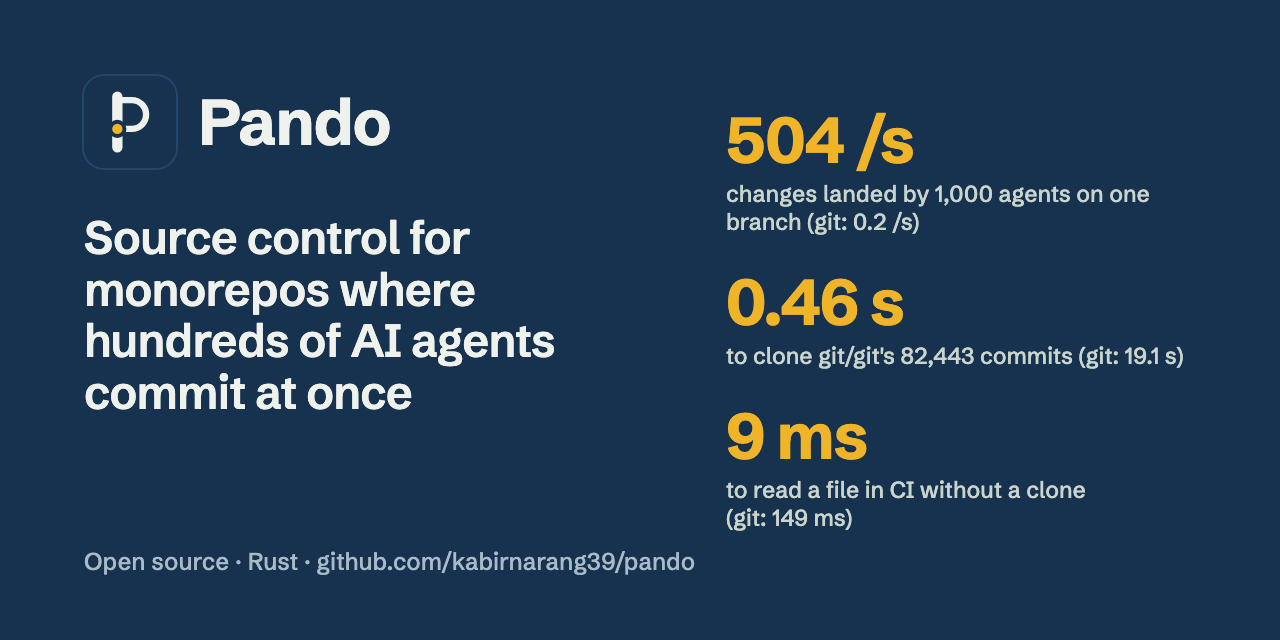
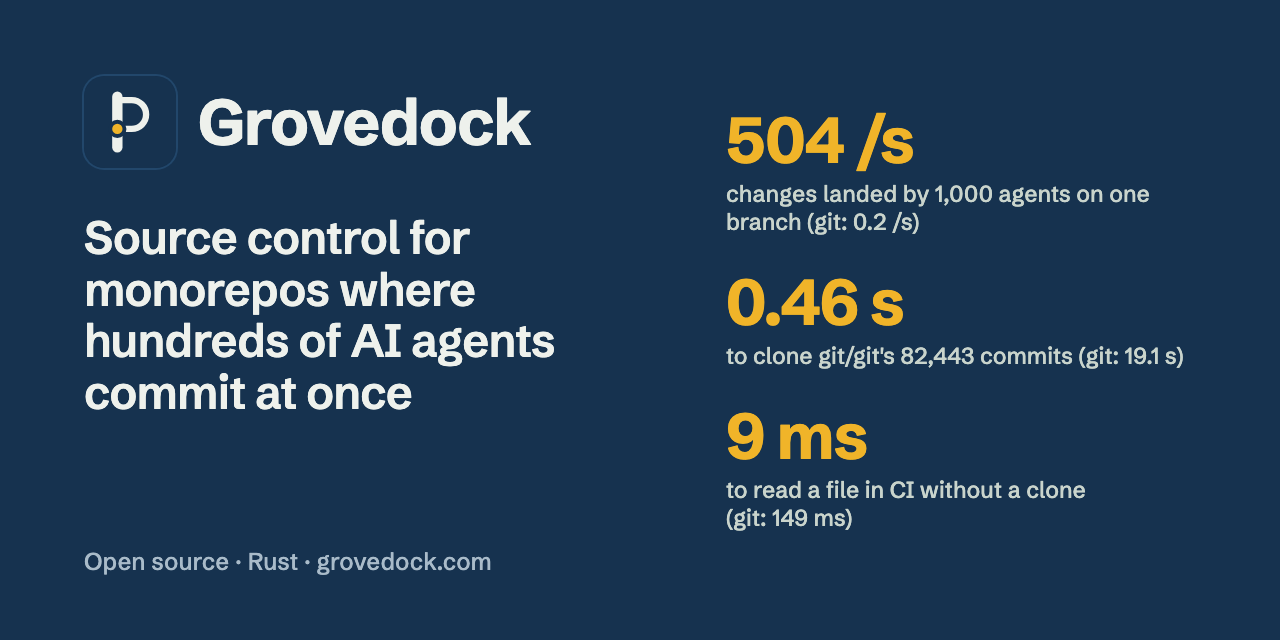
brand: rename the product to Grovedock, serve the site from grovedock.com
Site, docs, console and sign-in pages use the new name and a new
outlined wordmark (Schibsted Grotesk Bold, same tracking as before).
Commands, packages, PANDO_* variables, webhook headers and the protocol
keep the pando name until 3.6. The Pages build serves from the domain
root and writes CNAME.

Changed region(s): [[0.1562, 0.1562, 0.4062, 0.25], [0.25, 0.8438, 0.5312, 0.9062]]

diff --git a/console/src/brand.tsx b/console/src/brand.tsx
@@ -1,4 +1,4 @@
-// The Pando mark ("Branch P": a heavy stem for main, a lighter bowl for a branch that lands back,
+// The Grovedock mark ("Branch P": a heavy stem for main, a lighter bowl for a branch that lands back,
 // a gold node at the landing) and the wordmark, Schibsted Grotesk Bold outlined.
 
 export function Mark({ size = 24, title }: { size?: number; title?: string }) {
@@ -13,8 +13,8 @@ export function Mark({ size = 24, title }: { size?: number; title?: string }) {
 
 export function Wordmark({ height = 15 }: { height?: number }) {
   return (
-    <svg className="word" style={{ height }} viewBox="0 -1520 6062 1940" aria-hidden="true">
-      <path fill="currentColor" d="M141 390V-1080H423V-863L420 -879Q476 -997 569 -1052Q663 -1106 779 -1106Q915 -1106 1015 -1039Q1114 -971 1168 -844Q1222 -716 1222 -538Q1222 -360 1168 -234Q1113 -107 1012 -41Q912 26 774 26Q654 26 561 -29Q467 -85 409 -210L437 -212V390ZM668 -199Q777 -199 842 -291Q907 -382 907 -544Q907 -704 843 -792Q780 -881 670 -881Q601 -881 545 -844Q490 -807 457 -732Q425 -656 425 -542Q425 -371 495 -285Q565 -199 668 -199ZM1673 26Q1569 26 1482 -11Q1395 -47 1343 -119Q1290 -191 1290 -299Q1290 -415 1358 -496Q1425 -577 1552 -620Q1680 -662 1862 -662H2014L1996 -635V-697Q1996 -804 1957 -856Q1918 -909 1828 -909Q1741 -909 1696 -863Q1650 -818 1640 -734L1337 -786Q1353 -876 1414 -949Q1474 -1021 1582 -1064Q1689 -1107 1845 -1107Q1988 -1107 2087 -1062Q2186 -1016 2237 -914Q2289 -812 2289 -641V-274Q2289 -240 2298 -229Q2308 -218 2339 -218H2387V0H2245Q2129 0 2068 -59Q2007 -117 2007 -227V-278L2060 -258Q2047 -215 2021 -166Q1996 -117 1952 -73Q1908 -30 1840 -2Q1772 26 1673 26ZM1758 -178Q1829 -178 1882 -210Q1936 -242 1967 -306Q1998 -371 1998 -467V-490H1872Q1766 -490 1706 -462Q1646 -434 1622 -394Q1598 -353 1598 -315Q1598 -285 1613 -253Q1627 -221 1662 -199Q1697 -178 1758 -178ZM2526 0V-1080H2814V-831L2807 -876Q2856 -983 2946 -1044Q3036 -1106 3164 -1106Q3289 -1106 3370 -1049Q3450 -992 3489 -891Q3528 -790 3528 -658V0H3230V-639Q3230 -754 3192 -818Q3154 -881 3060 -881Q2949 -881 2887 -786Q2824 -691 2824 -495V0ZM4095 26Q3959 26 3860 -42Q3760 -110 3706 -237Q3652 -364 3652 -542Q3652 -720 3706 -846Q3761 -973 3861 -1039Q3961 -1106 4099 -1106Q4219 -1106 4313 -1051Q4406 -996 4464 -870L4434 -868V-1500H4732V0H4450V-217L4453 -202Q4399 -85 4306 -29Q4212 26 4095 26ZM4203 -199Q4273 -199 4329 -236Q4384 -273 4416 -349Q4449 -425 4449 -538Q4449 -709 4378 -795Q4308 -881 4206 -881Q4098 -881 4032 -790Q3967 -699 3967 -536Q3967 -377 4030 -288Q4093 -199 4203 -199ZM5436 26Q5273 26 5149 -46Q5024 -118 4954 -245Q4885 -373 4885 -540Q4885 -708 4954 -835Q5024 -963 5149 -1034Q5273 -1106 5436 -1106Q5600 -1106 5724 -1034Q5849 -963 5919 -835Q5989 -708 5989 -540Q5989 -372 5919 -245Q5849 -117 5724 -46Q5599 26 5436 26ZM5437 -193Q5548 -193 5613 -287Q5677 -380 5677 -540Q5677 -701 5613 -794Q5548 -887 5437 -887Q5325 -887 5261 -794Q5196 -701 5196 -540Q5196 -379 5261 -286Q5325 -193 5437 -193Z" />
+    <svg className="word" style={{ height }} viewBox="0 -1520 10315 1940" aria-hidden="true">
+      <path fill="currentColor" d="M565 416Q304 416 177 347Q50 278 50 134Q50 45 96 -10Q141 -65 220 -91Q183 -117 161 -156Q140 -195 140 -242Q140 -303 178 -349Q216 -395 287 -415Q208 -465 163 -543Q119 -622 119 -723Q119 -839 177 -925Q234 -1011 338 -1059Q442 -1106 581 -1106Q720 -1106 824 -1059Q928 -1011 986 -924Q1044 -838 1044 -722Q1044 -608 986 -522Q928 -436 824 -389Q719 -341 579 -341H507Q408 -341 408 -288Q408 -237 507 -237H725Q837 -237 914 -210Q991 -183 1040 -138Q1088 -92 1111 -33Q1133 26 1133 91Q1133 255 1003 336Q873 416 604 416ZM572 226H608Q831 226 831 92Q831 40 792 6Q753 -29 650 -29H508Q446 -29 396 1Q346 30 346 99Q346 163 401 194Q456 226 572 226ZM581 -528Q668 -528 716 -579Q763 -630 763 -722Q763 -814 716 -866Q668 -918 581 -918Q495 -918 447 -867Q399 -815 399 -722Q399 -630 447 -579Q495 -528 581 -528ZM741 -951V-1060Q741 -1170 805 -1228Q869 -1287 991 -1287H1094V-1068H974Q943 -1068 933 -1057Q924 -1046 924 -1013V-951ZM1265 0V-1080H1553V-837L1540 -869Q1592 -989 1685 -1048Q1778 -1106 1888 -1106Q1919 -1106 1951 -1101Q1983 -1096 2014 -1084L1992 -830Q1927 -848 1866 -848Q1817 -848 1764 -831Q1711 -814 1665 -772Q1620 -729 1591 -652Q1563 -574 1563 -454V0ZM2625 26Q2462 26 2338 -46Q2213 -118 2143 -245Q2074 -373 2074 -540Q2074 -708 2143 -835Q2213 -963 2338 -1034Q2462 -1106 2625 -1106Q2789 -1106 2913 -1034Q3038 -963 3108 -835Q3178 -708 3178 -540Q3178 -372 3108 -245Q3038 -117 2913 -46Q2788 26 2625 26ZM2626 -193Q2737 -193 2802 -287Q2866 -380 2866 -540Q2866 -701 2802 -794Q2737 -887 2626 -887Q2514 -887 2450 -794Q2385 -701 2385 -540Q2385 -379 2450 -286Q2514 -193 2626 -193ZM3632 0 3223 -1080H3556L3823 -212H3795L4061 -1080H4394L3986 0ZM4999 26Q4841 26 4714 -43Q4588 -112 4514 -240Q4440 -367 4440 -541Q4440 -714 4512 -841Q4585 -968 4711 -1037Q4837 -1106 4997 -1106Q5087 -1106 5178 -1079Q5270 -1052 5346 -983Q5423 -915 5470 -792Q5517 -670 5517 -480H4631V-650H5252L5220 -597Q5212 -705 5180 -771Q5149 -837 5099 -867Q5050 -897 4989 -897Q4910 -897 4857 -852Q4804 -807 4778 -727Q4752 -646 4752 -540Q4752 -380 4812 -287Q4872 -194 4997 -194Q5078 -194 5137 -236Q5196 -278 5227 -364L5496 -295Q5458 -183 5381 -112Q5304 -41 5205 -8Q5105 26 4999 26ZM6034 26Q5899 26 5799 -42Q5699 -110 5645 -237Q5591 -364 5591 -542Q5591 -720 5645 -846Q5700 -973 5800 -1039Q5900 -1106 6039 -1106Q6158 -1106 6252 -1051Q6345 -996 6403 -870L6373 -868V-1500H6671V0H6389V-217L6392 -202Q6338 -85 6245 -29Q6151 26 6034 26ZM6142 -199Q6212 -199 6268 -236Q6323 -273 6355 -349Q6388 -425 6388 -538Q6388 -709 6318 -795Q6247 -881 6145 -881Q6037 -881 5972 -790Q5906 -699 5906 -536Q5906 -377 5969 -288Q6032 -199 6142 -199ZM7375 26Q7212 26 7088 -46Q6963 -118 6894 -245Q6824 -373 6824 -540Q6824 -708 6894 -835Q6963 -963 7088 -1034Q7212 -1106 7375 -1106Q7539 -1106 7664 -1034Q7788 -963 7858 -835Q7928 -708 7928 -540Q7928 -372 7858 -245Q7788 -117 7663 -46Q7539 26 7375 26ZM7376 -193Q7487 -193 7552 -287Q7616 -380 7616 -540Q7616 -701 7552 -794Q7487 -887 7376 -887Q7264 -887 7200 -794Q7136 -701 7136 -540Q7136 -379 7200 -286Q7264 -193 7376 -193ZM8569 26Q8399 26 8275 -43Q8150 -112 8083 -239Q8016 -366 8016 -541Q8016 -715 8083 -842Q8150 -969 8274 -1038Q8398 -1106 8568 -1106Q8690 -1106 8795 -1062Q8900 -1018 8973 -932Q9047 -845 9074 -717L8791 -657Q8770 -772 8712 -830Q8654 -887 8566 -887Q8445 -887 8386 -791Q8328 -695 8328 -537Q8328 -380 8386 -286Q8444 -193 8567 -193Q8652 -193 8710 -244Q8769 -296 8796 -402L9069 -351Q9048 -253 9000 -181Q8951 -110 8883 -64Q8814 -19 8734 4Q8654 26 8569 26ZM9214 0V-1500H9512V-664L9928 -1080H10269L9862 -676L10284 0H9952L9662 -470L9512 -320V0Z" />
     </svg>
   );
 }

diff --git a/console/index.html b/console/index.html
@@ -4,8 +4,8 @@
     <meta charset="utf-8" />
     <meta name="viewport" content="width=device-width, initial-scale=1, viewport-fit=cover" />
     <meta name="color-scheme" content="light dark" />
-    <meta name="description" content="Pando console: browse code, watch changes land and see locked files on a Pando server." />
-    <title>Pando console</title>
+    <meta name="description" content="Grovedock console: browse code, watch changes land and see locked files on a Grovedock server." />
+    <title>Grovedock console</title>
     <link rel="icon" href="./favicon.svg" type="image/svg+xml" />
     <script>
       // Apply the saved theme before first paint, so dark mode never flashes light.
@@ -36,10 +36,10 @@
             pando
           </div>
         </div>
-        <div class="first-main">Loading Pando…</div>
+        <div class="first-main">Loading Grovedock…</div>
       </div>
     </div>
-    <noscript>The Pando console needs JavaScript.</noscript>
+    <noscript>The Grovedock console needs JavaScript.</noscript>
     <script type="module" src="/src/main.tsx"></script>
   </body>
 </html>

diff --git a/console/src/views/Welcome.tsx b/console/src/views/Welcome.tsx
@@ -49,7 +49,7 @@ export function WelcomeView() {
   return (
     <div className="page page-narrow">
       <div>
-        <h1>{first ? "Welcome to Pando" : "New organisation"}</h1>
+        <h1>{first ? "Welcome to Grovedock" : "New organisation"}</h1>
         <p className="lede">
           {first
             ? "Three short steps and your team and agents can start landing code. You can skip the last two and come back later."
@@ -159,7 +159,7 @@ function AgentStep({ org }: { org: string }) {
     <div className="stack">
       <h2 id="step-title">Connect an agent</h2>
       <p style={{ margin: 0 }}>
-        Agents reach Pando over MCP with a URL and a token. Give the agent a name of its own, so its work is easy to tell apart from yours; it answers to you.
+        Agents reach Grovedock over MCP with a URL and a token. Give the agent a name of its own, so its work is easy to tell apart from yours; it answers to you.
       </p>
       {!token ? (
         <form

diff --git a/console/src/views/Connect.tsx b/console/src/views/Connect.tsx
@@ -138,11 +138,11 @@ export function ConnectView() {
   return (
     <div className="page page-narrow">
       <div>
-        <h1>{providers && !useToken ? "Sign in to Pando" : "Connect to a server"}</h1>
+        <h1>{providers && !useToken ? "Sign in to Grovedock" : "Connect to a server"}</h1>
         <p className="lede">
           {providers && !useToken
             ? "Sign in to see your organisations, repositories and agents."
-            : "The console reads one Pando server. It runs in your browser and talks to the server directly; nothing passes through anyone else."}
+            : "The console reads one Grovedock server. It runs in your browser and talks to the server directly; nothing passes through anyone else."}
         </p>
         {suggested && (
           <p className="status" data-kind="ok" role="status">

diff --git a/console/e2e/onboarding.spec.ts b/console/e2e/onboarding.spec.ts
@@ -50,7 +50,7 @@ test("server: a person with no organisation is guided from naming one to connect
   await page.goto(`/?server=${encodeURIComponent(FRESH)}#/`);
   await page.getByRole("button", { name: "Connect", exact: true }).click();
   // No organisations yet: straight into step 1.
-  await expect(page.getByRole("heading", { name: "Welcome to Pando" })).toBeVisible();
+  await expect(page.getByRole("heading", { name: "Welcome to Grovedock" })).toBeVisible();
   await expect(page.getByRole("heading", { name: "Name your organisation" })).toBeVisible();
 
   const name = page.getByLabel("Short name, used in addresses");

diff --git a/scripts/social-preview.html b/scripts/social-preview.html
@@ -16,9 +16,9 @@
 </style></head>
 <body>
   <div>
-    <div class="brand"><img src="../docs/assets/brand/mark.svg" alt="">Pando</div>
+    <div class="brand"><img src="../docs/assets/brand/mark.svg" alt="">Grovedock</div>
     <h1>Source control for monorepos where hundreds of AI agents commit at once</h1>
-    <div class="meta">Open source · Rust · github.com/kabirnarang39/pando</div>
+    <div class="meta">Open source · Rust · grovedock.com</div>
   </div>
   <div class="nums">
     <div class="num"><b>504 /s</b><span>changes landed by 1,000 agents on one branch (git:&nbsp;0.2&nbsp;/s)</span></div>

diff --git a/console/src/components/Webhooks.tsx b/console/src/components/Webhooks.tsx
@@ -38,7 +38,7 @@ export function Webhooks({ repo }: { repo: string }) {
         )}
       </div>
       <p className="panel-note muted">
-        Pando posts JSON to these URLs when something happens, signed with <span className="mono">X-Pando-Signature-256</span> the way GitHub signs, so CI, chat and trackers can react.
+        Grovedock posts JSON to these URLs when something happens, signed with <span className="mono">X-Pando-Signature-256</span> the way GitHub signs, so CI, chat and trackers can react.
       </p>
       {adding && (
         <form

diff --git a/site/index.html b/site/index.html
@@ -171,7 +171,7 @@
       <a href="mailto:{{CONTACT_EMAIL}}">Contact</a>
     </nav>
     <p id="fn1"><a href="#fnref1" aria-label="Back to text">1</a>. The line nods to Base Power's "Merge, don't queue."</p>
-    <p>Apache-2.0. Named after Pando, a grove of some 47,000 aspen trunks that grow from one root system.</p>
+    <p>Apache-2.0. Inspired by Pando, the aspen grove in Utah: some 47,000 trunks on one root system. A grove of agents on one root, and a dock where their changes land.</p>
   </div>
 </footer>
 <script>

diff --git a/console/src/api/demo-repo.ts b/console/src/api/demo-repo.ts
@@ -33,7 +33,7 @@ The monorepo behind Fleet: billing, search, the web app and the infrastructure t
 | web/app | storefront | the customer web app (TypeScript) |
 | infra | platform | Terraform for every environment |
 
-Every change lands on \`main\` through Pando. Agents land small changes continuously;
+Every change lands on \`main\` through Grovedock. Agents land small changes continuously;
 people review them in the console.
 `,
   "services/billing/Cargo.toml": `[package]

diff --git a/console/src/shell/AppShell.tsx b/console/src/shell/AppShell.tsx
@@ -186,7 +186,7 @@ function Sidebar({ onSearch, theme, setTheme, showShortcuts }: { onSearch(): voi
   return (
     <nav className="sidebar" aria-label="Main">
       <div className="workspace">
-        <Link to="/" className="lockup" aria-label="Pando home">
+        <Link to="/" className="lockup" aria-label="Grovedock home">
           <Mark size={22} />
           <Wordmark height={15} />
         </Link>

diff --git a/crates/pando-server/src/login/page.rs b/crates/pando-server/src/login/page.rs
@@ -13,7 +13,7 @@ const LOGO: &str = concat!(
     "<path d=\"M21 13h12.5a12.5 12.5 0 0 1 0 25H25\" fill=none stroke=currentColor stroke-width=5.5 stroke-linecap=round />",
     "<path d=\"M21 10v44\" stroke=currentColor stroke-width=9 stroke-linecap=round />",
     "<circle cx=21 cy=38 r=6.2 fill=#F0B429 style=\"stroke:var(--panel)\" stroke-width=3.4 /></svg>",
-    "<svg class=word viewBox=\"0 -1520 6062 1940\" aria-hidden=true><path fill=currentColor d=\"M141 390V-1080H423V-863L420 -879Q476 -997 569 -1052Q663 -1106 779 -1106Q915 -1106 1015 -1039Q1114 -971 1168 -844Q1222 -716 1222 -538Q1222 -360 1168 -234Q1113 -107 1012 -41Q912 26 774 26Q654 26 561 -29Q467 -85 409 -210L437 -212V390ZM668 -199Q777 -199 842 -291Q907 -382 907 -544Q907 -704 843 -792Q780 -881 670 -881Q601 -881 545 -844Q490 -807 457 -732Q425 -656 425 -542Q425 -371 495 -285Q565 -199 668 -199ZM1673 26Q1569 26 1482 -11Q1395 -47 1343 -119Q1290 -191 1290 -299Q1290 -415 1358 -496Q1425 -577 1552 -620Q1680 -662 1862 -662H2014L1996 -635V-697Q1996 -804 1957 -856Q1918 -909 1828 -909Q1741 -909 1696 -863Q1650 -818 1640 -734L1337 -786Q1353 -876 1414 -949Q1474 -1021 1582 -1064Q1689 -1107 1845 -1107Q1988 -1107 2087 -1062Q2186 -1016 2237 -914Q2289 -812 2289 -641V-274Q2289 -240 2298 -229Q2308 -218 2339 -218H2387V0H2245Q2129 0 2068 -59Q2007 -117 2007 -227V-278L2060 -258Q2047 -215 2021 -166Q1996 -117 1952 -73Q1908 -30 1840 -2Q1772 26 1673 26ZM1758 -178Q1829 -178 1882 -210Q1936 -242 1967 -306Q1998 -371 1998 -467V-490H1872Q1766 -490 1706 -462Q1646 -434 1622 -394Q1598 -353 1598 -315Q1598 -285 1613 -253Q1627 -221 1662 -199Q1697 -178 1758 -178ZM2526 0V-1080H2814V-831L2807 -876Q2856 -983 2946 -1044Q3036 -1106 3164 -1106Q3289 -1106 3370 -1049Q3450 -992 3489 -891Q3528 -790 3528 -658V0H3230V-639Q3230 -754 3192 -818Q3154 -881 3060 -881Q2949 -881 2887 -786Q2824 -691 2824 -495V0ZM4095 26Q3959 26 3860 -42Q3760 -110 3706 -237Q3652 -364 3652 -542Q3652 -720 3706 -846Q3761 -973 3861 -1039Q3961 -1106 4099 -1106Q4219 -1106 4313 -1051Q4406 -996 4464 -870L4434 -868V-1500H4732V0H4450V-217L4453 -202Q4399 -85 4306 -29Q4212 26 4095 26ZM4203 -199Q4273 -199 4329 -236Q4384 -273 4416 -349Q4449 -425 4449 -538Q4449 -709 4378 -795Q4308 -881 4206 -881Q4098 -881 4032 -790Q3967 -699 3967 -536Q3967 -377 4030 -288Q4093 -199 4203 -199ZM5436 26Q5273 26 5149 -46Q5024 -118 4954 -245Q4885 -373 4885 -540Q4885 -708 4954 -835Q5024 -963 5149 -1034Q5273 -1106 5436 -1106Q5600 -1106 5724 -1034Q5849 -963 5919 -835Q5989 -708 5989 -540Q5989 -372 5919 -245Q5849 -117 5724 -46Q5599 26 5436 26ZM5437 -193Q5548 -193 5613 -287Q5677 -380 5677 -540Q5677 -701 5613 -794Q5548 -887 5437 -887Q5325 -887 5261 -794Q5196 -701 5196 -540Q5196 -379 5261 -286Q5325 -193 5437 -193Z\" /></svg>",
+    "<svg class=word viewBox=\"0 -1520 10315 1940\" aria-hidden=true><path fill=currentColor d=\"M565 416Q304 416 177 347Q50 278 50 134Q50 45 96 -10Q141 -65 220 -91Q183 -117 161 -156Q140 -195 140 -242Q140 -303 178 -349Q216 -395 287 -415Q208 -465 163 -543Q119 -622 119 -723Q119 -839 177 -925Q234 -1011 338 -1059Q442 -1106 581 -1106Q720 -1106 824 -1059Q928 -1011 986 -924Q1044 -838 1044 -722Q1044 -608 986 -522Q928 -436 824 -389Q719 -341 579 -341H507Q408 -341 408 -288Q408 -237 507 -237H725Q837 -237 914 -210Q991 -183 1040 -138Q1088 -92 1111 -33Q1133 26 1133 91Q1133 255 1003 336Q873 416 604 416ZM572 226H608Q831 226 831 92Q831 40 792 6Q753 -29 650 -29H508Q446 -29 396 1Q346 30 346 99Q346 163 401 194Q456 226 572 226ZM581 -528Q668 -528 716 -579Q763 -630 763 -722Q763 -814 716 -866Q668 -918 581 -918Q495 -918 447 -867Q399 -815 399 -722Q399 -630 447 -579Q495 -528 581 -528ZM741 -951V-1060Q741 -1170 805 -1228Q869 -1287 991 -1287H1094V-1068H974Q943 -1068 933 -1057Q924 -1046 924 -1013V-951ZM1265 0V-1080H1553V-837L1540 -869Q1592 -989 1685 -1048Q1778 -1106 1888 -1106Q1919 -1106 1951 -1101Q1983 -1096 2014 -1084L1992 -830Q1927 -848 1866 -848Q1817 -848 1764 -831Q1711 -814 1665 -772Q1620 -729 1591 -652Q1563 -574 1563 -454V0ZM2625 26Q2462 26 2338 -46Q2213 -118 2143 -245Q2074 -373 2074 -540Q2074 -708 2143 -835Q2213 -963 2338 -1034Q2462 -1106 2625 -1106Q2789 -1106 2913 -1034Q3038 -963 3108 -835Q3178 -708 3178 -540Q3178 -372 3108 -245Q3038 -117 2913 -46Q2788 26 2625 26ZM2626 -193Q2737 -193 2802 -287Q2866 -380 2866 -540Q2866 -701 2802 -794Q2737 -887 2626 -887Q2514 -887 2450 -794Q2385 -701 2385 -540Q2385 -379 2450 -286Q2514 -193 2626 -193ZM3632 0 3223 -1080H3556L3823 -212H3795L4061 -1080H4394L3986 0ZM4999 26Q4841 26 4714 -43Q4588 -112 4514 -240Q4440 -367 4440 -541Q4440 -714 4512 -841Q4585 -968 4711 -1037Q4837 -1106 4997 -1106Q5087 -1106 5178 -1079Q5270 -1052 5346 -983Q5423 -915 5470 -792Q5517 -670 5517 -480H4631V-650H5252L5220 -597Q5212 -705 5180 -771Q5149 -837 5099 -867Q5050 -897 4989 -897Q4910 -897 4857 -852Q4804 -807 4778 -727Q4752 -646 4752 -540Q4752 -380 4812 -287Q4872 -194 4997 -194Q5078 -194 5137 -236Q5196 -278 5227 -364L5496 -295Q5458 -183 5381 -112Q5304 -41 5205 -8Q5105 26 4999 26ZM6034 26Q5899 26 5799 -42Q5699 -110 5645 -237Q5591 -364 5591 -542Q5591 -720 5645 -846Q5700 -973 5800 -1039Q5900 -1106 6039 -1106Q6158 -1106 6252 -1051Q6345 -996 6403 -870L6373 -868V-1500H6671V0H6389V-217L6392 -202Q6338 -85 6245 -29Q6151 26 6034 26ZM6142 -199Q6212 -199 6268 -236Q6323 -273 6355 -349Q6388 -425 6388 -538Q6388 -709 6318 -795Q6247 -881 6145 -881Q6037 -881 5972 -790Q5906 -699 5906 -536Q5906 -377 5969 -288Q6032 -199 6142 -199ZM7375 26Q7212 26 7088 -46Q6963 -118 6894 -245Q6824 -373 6824 -540Q6824 -708 6894 -835Q6963 -963 7088 -1034Q7212 -1106 7375 -1106Q7539 -1106 7664 -1034Q7788 -963 7858 -835Q7928 -708 7928 -540Q7928 -372 7858 -245Q7788 -117 7663 -46Q7539 26 7375 26ZM7376 -193Q7487 -193 7552 -287Q7616 -380 7616 -540Q7616 -701 7552 -794Q7487 -887 7376 -887Q7264 -887 7200 -794Q7136 -701 7136 -540Q7136 -379 7200 -286Q7264 -193 7376 -193ZM8569 26Q8399 26 8275 -43Q8150 -112 8083 -239Q8016 -366 8016 -541Q8016 -715 8083 -842Q8150 -969 8274 -1038Q8398 -1106 8568 -1106Q8690 -1106 8795 -1062Q8900 -1018 8973 -932Q9047 -845 9074 -717L8791 -657Q8770 -772 8712 -830Q8654 -887 8566 -887Q8445 -887 8386 -791Q8328 -695 8328 -537Q8328 -380 8386 -286Q8444 -193 8567 -193Q8652 -193 8710 -244Q8769 -296 8796 -402L9069 -351Q9048 -253 9000 -181Q8951 -110 8883 -64Q8814 -19 8734 4Q8654 26 8569 26ZM9214 0V-1500H9512V-664L9928 -1080H10269L9862 -676L10284 0H9952L9662 -470L9512 -320V0Z\" /></svg>",
 );
 
 const STYLE: &str = "
@@ -60,7 +60,7 @@ input:focus-visible{outline-offset:0;border-color:var(--focus)}
 /// A sign-in page; `body` is HTML whose dynamic parts are already escaped.
 pub(super) fn page(status: StatusCode, title: &str, body: &str) -> Response {
     let html = format!(
-        "<!doctype html><html lang=en><meta charset=utf-8><meta name=viewport content=\"width=device-width,initial-scale=1\">         <meta name=color-scheme content=\"light dark\"><title>{t} – Pando</title><style>{STYLE}</style>         <main><div class=brand role=img aria-label=Pando>{LOGO}</div><h1>{t}</h1>{body}</main>",
+        "<!doctype html><html lang=en><meta charset=utf-8><meta name=viewport content=\"width=device-width,initial-scale=1\">         <meta name=color-scheme content=\"light dark\"><title>{t} – Grovedock</title><style>{STYLE}</style>         <main><div class=brand role=img aria-label=Grovedock>{LOGO}</div><h1>{t}</h1>{body}</main>",
         t = esc(title)
     );
     (status, [(header::CONTENT_TYPE, "text/html; charset=utf-8")], html).into_response()

diff --git a/crates/pando-server/src/login/mod.rs b/crates/pando-server/src/login/mod.rs
@@ -205,7 +205,7 @@ impl Login {
                 }
                 Some(Mailer {
                     transport: b.timeout(Some(Duration::from_secs(20))).build(),
-                    from: from.parse().context("--mail-from must be an address like Pando <login@example.com>")?,
+                    from: from.parse().context("--mail-from must be an address like Grovedock <login@example.com>")?,
                 })
             }
             (None, None) => None,
@@ -378,7 +378,7 @@ impl Login {
             None => text.to_owned(),
         };
         let body = format!(
-            "<p>This creates a Pando account for <strong>{}</strong>.</p>{}\
+            "<p>This creates a Grovedock account for <strong>{}</strong>.</p>{}\
              <label class=check><input type=checkbox name=accept value=yes required> \
              <span>I am 18 or older and accept the {} and {}</span></label><button>Create my account</button>",
             esc(email),
@@ -493,7 +493,7 @@ fn fail(status: StatusCode, message: &str) -> Response {
     page(
         status,
         "We couldn't sign you in",
-        &format!("<p role=alert>{}</p><p><a href=\"/\">Back to Pando</a></p>", esc(message)),
+        &format!("<p role=alert>{}</p><p><a href=\"/\">Back to Grovedock</a></p>", esc(message)),
     )
 }
 
@@ -713,7 +713,7 @@ async fn email_form(State(l): State<Arc<Login>>, Query(q): Query<NextQuery>) -> 
     if l.mailer.is_none() {
         return fail(StatusCode::NOT_FOUND, "Email sign-in is not set up on this server.");
     }
-    l.sign_in_page("Sign in to Pando", "", &safe_next(q.next.as_deref()).unwrap_or_else(|| "/".into()))
+    l.sign_in_page("Sign in to Grovedock", "", &safe_next(q.next.as_deref()).unwrap_or_else(|| "/".into()))
 }
 
 #[derive(Deserialize)]
@@ -829,7 +829,7 @@ async fn email_confirm(Query(q): Query<TokenForm>) -> Response {
         StatusCode::OK,
         "Finish signing in",
         &format!(
-            "<p>You opened your sign-in link. Continue to sign in to Pando in this browser.</p>\
+            "<p>You opened your sign-in link. Continue to sign in to Grovedock in this browser.</p>\
              <form method=post action=\"/login/email/verify\"><input type=hidden name=token value=\"{}\"><button>Sign in</button></form>",
             esc(&token)
         ),
